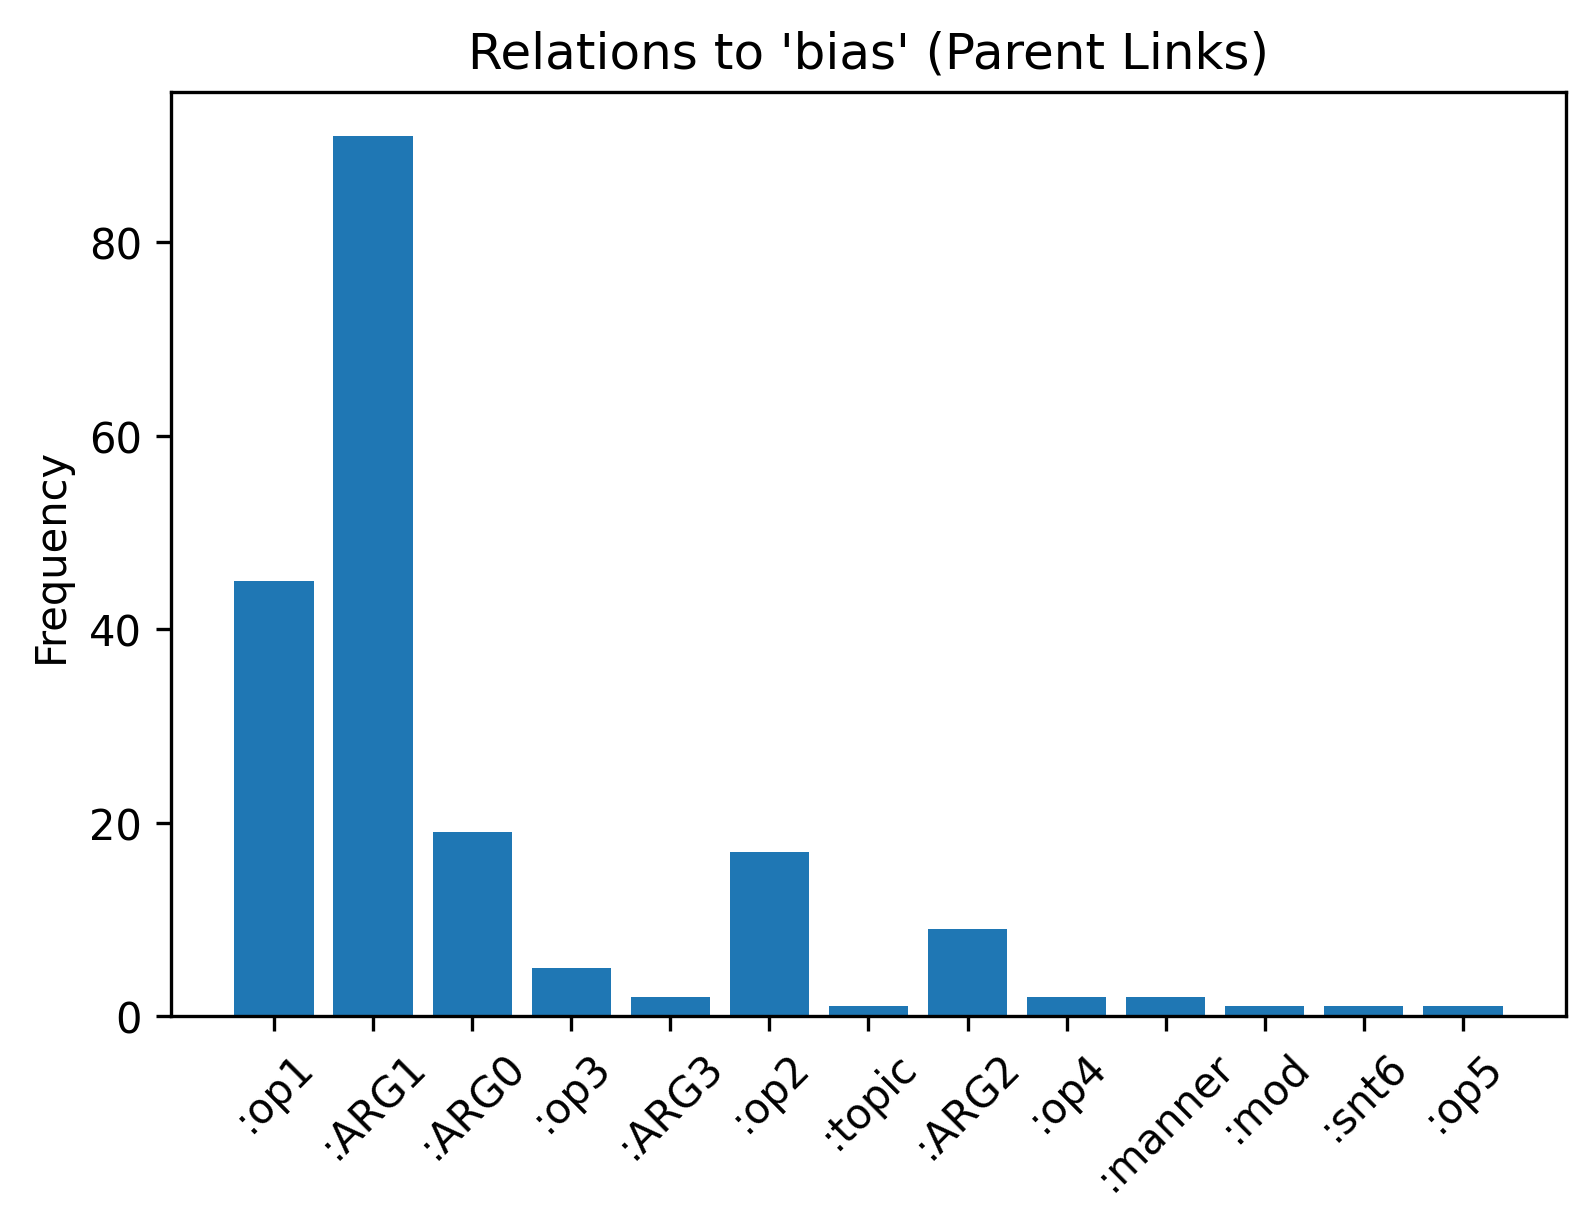
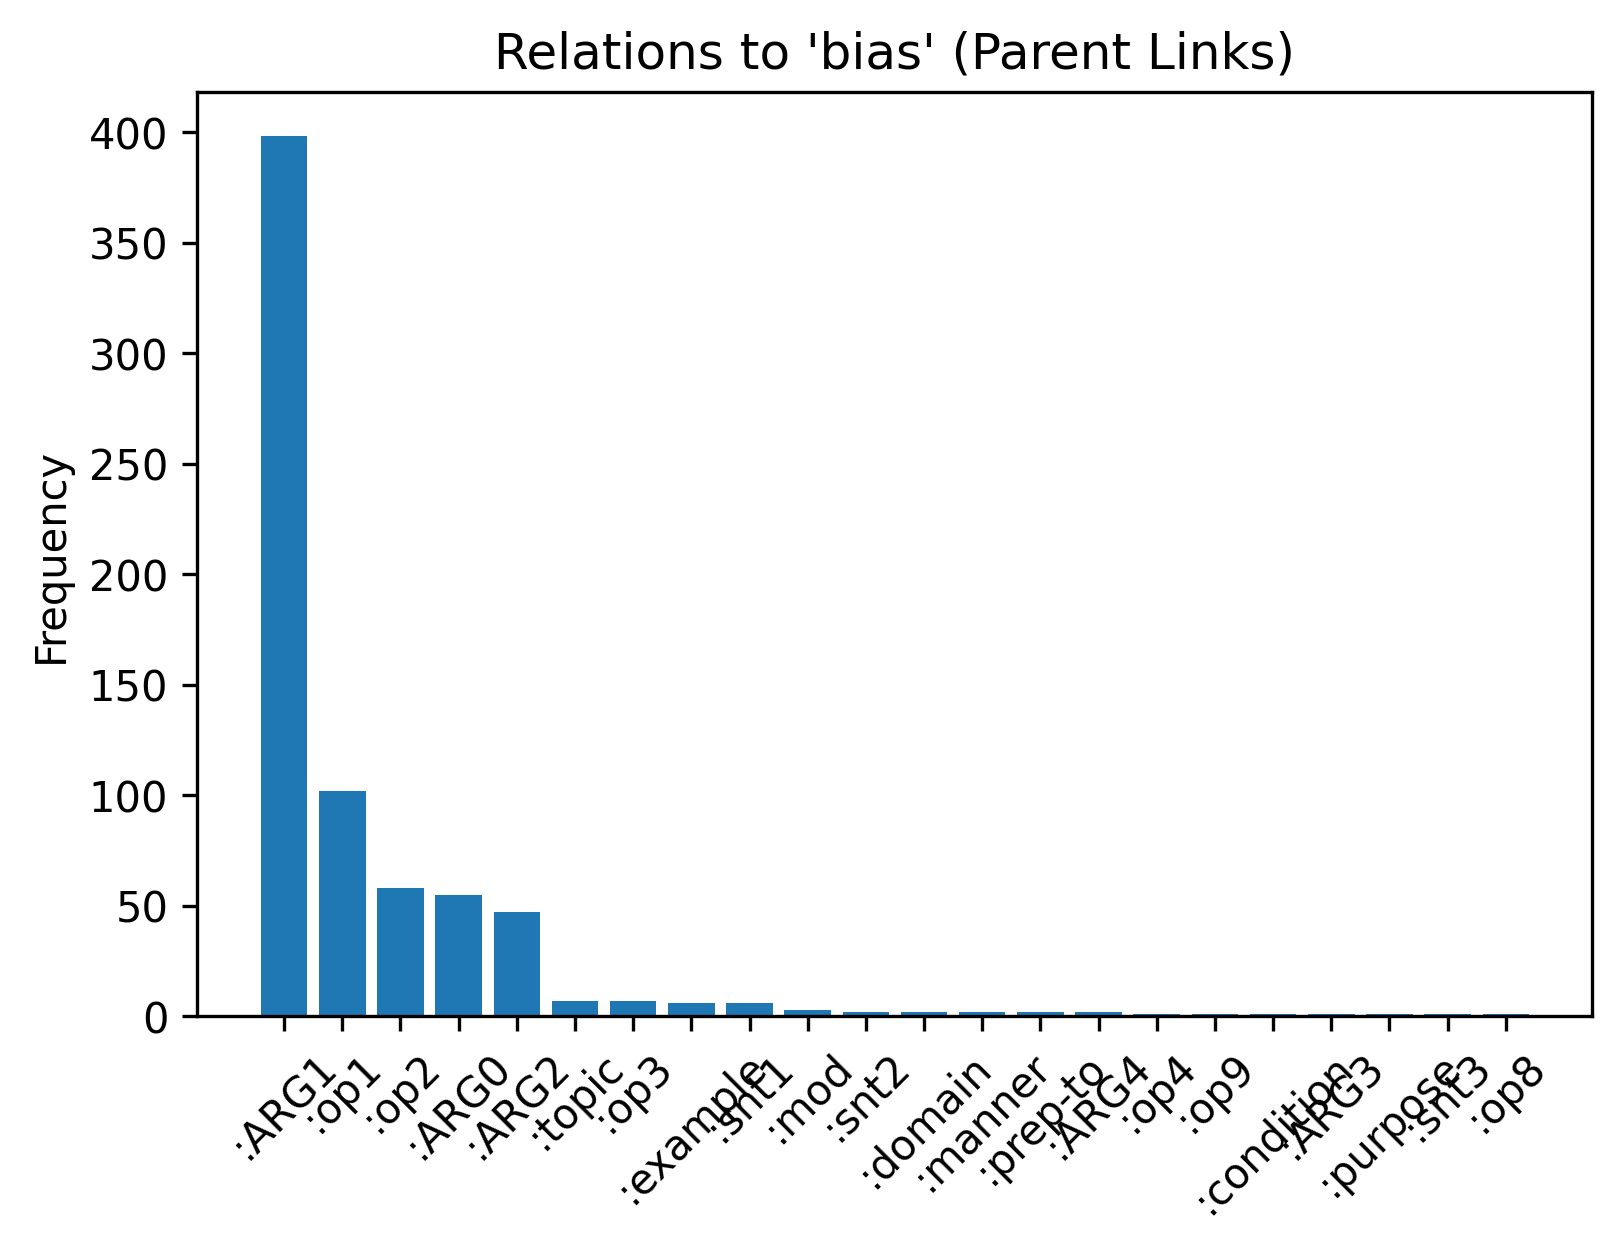
feat: add bias amr

Changed region(s): [[0.0, 0.0, 0.9831, 0.9585]]

diff --git a/src/bias_position_in_graph.py b/src/bias_position_in_graph.py
@@ -1,0 +1,146 @@
+from penman import load
+from collections import defaultdict, Counter
+import matplotlib.pyplot as plt
+import logging
+from src.config import cfg
+
+# --- Logging configuration ---
+logging.getLogger().setLevel(logging.ERROR)
+logging.getLogger("penman").setLevel(logging.ERROR)
+logging.getLogger("penman.codec").setLevel(logging.ERROR)
+
+# --- Load AMR file ---
+amr_file = cfg.amr_path
+
+with open(amr_file, "r", encoding="utf-8") as f:
+    amr_graphs = list(load(f))
+
+print(f"Loaded {len(amr_graphs)} AMR graphs.\n")
+
+# --- Count occurrences of concepts related to 'bias' ---
+bias_concepts = defaultdict(int)
+
+for graph in amr_graphs:
+    for src, rel, tgt in graph.triples:
+        if rel == ":instance" and tgt and "bias" in tgt.lower():
+            bias_concepts[tgt.lower()] += 1
+
+# --- Analyze structural position of 'bias' in each graph ---
+def analyze_bias_structure(graph):
+    """Return structural info for nodes representing 'bias' or 'bias-01'."""
+    triples = graph.triples
+    bias_nodes = [
+        src
+        for (src, rel, tgt) in triples
+        if rel == ":instance" and tgt and "bias" in tgt.lower()
+    ]
+    structures = []
+
+    for node in bias_nodes:
+        parents = [(src, rel) for (src, rel, tgt) in triples if tgt == node]
+        children = [(rel, tgt) for (src, rel, tgt) in triples if src == node and rel != ":instance"]
+        siblings = set()
+
+        for (src, rel, tgt) in triples:
+            if tgt == node:
+                siblings.update(
+                    [sib_tgt for (sib_src, sib_rel, sib_tgt) in triples if sib_src == src and sib_tgt != node]
+                )
+
+        all_targets = {t for (_, _, t) in triples}
+        is_root = node not in all_targets
+        is_leaf = not any(src == node and rel != ":instance" for (src, rel, tgt) in triples)
+
+        structures.append({
+            "node": node,
+            "is_root": is_root,
+            "is_leaf": is_leaf,
+            "parents": parents,
+            "siblings": list(siblings),
+            "children": children
+        })
+    return structures
+
+
+# --- Iterate and print structure info for graphs containing 'bias' ---
+for i, graph in enumerate(amr_graphs):
+    structures = analyze_bias_structure(graph)
+    if structures:
+        print(f"\n--- Graph {i + 1} ---")
+        for s in structures:
+            pos_type = "root" if s["is_root"] else "leaf" if s["is_leaf"] else "node"
+            print(f"Node: {s['node']} ({pos_type})")
+            print(f"  Parents: {s['parents']}")
+            print(f"  Siblings: {s['siblings']}")
+            print(f"  Children: {s['children']}")
+
+# --- Summary statistics ---
+summary = {
+    "root_count": 0,
+    "node_count": 0,
+    "leaf_count": 0,
+    "relations_to_bias": Counter(),
+    "relations_from_bias": Counter(),
+}
+
+for graph in amr_graphs:
+    triples = graph.triples
+    bias_nodes = [src for (src, rel, tgt) in triples if rel == ":instance" and tgt and "bias" in tgt.lower()]
+
+    for node in bias_nodes:
+        all_targets = {t for (_, _, t) in triples}
+        is_root = node not in all_targets
+        is_leaf = not any(src == node and rel != ":instance" for (src, rel, tgt) in triples)
+
+        if is_root:
+            summary["root_count"] += 1
+        elif is_leaf:
+            summary["leaf_count"] += 1
+        else:
+            summary["node_count"] += 1
+
+        for src, rel, tgt in triples:
+            if tgt == node:
+                summary["relations_to_bias"][rel] += 1
+            if src == node:
+                summary["relations_from_bias"][rel] += 1
+
+# --- Print summary ---
+print("\n=== Summary of 'bias' Structures ===")
+print(f"Root occurrences: {summary['root_count']}")
+print(f"Internal node occurrences: {summary['node_count']}")    
+print(f"Leaf occurrences: {summary['leaf_count']}")
+
+print("\nRelations TO 'bias' (Parent → Bias):")
+for rel, count in summary["relations_to_bias"].most_common():
+    print(f"  {rel}: {count}")
+
+print("\nRelations FROM 'bias' (Bias → Child):")
+for rel, count in summary["relations_from_bias"].most_common():
+    print(f"  {rel}: {count}")
+
+# --- Plot parent relations ---
+plt.figure(figsize=(6, 4))
+relations_to_bias = summary["relations_to_bias"]
+if relations_to_bias:
+    sorted_relations = sorted(relations_to_bias.items(), key=lambda x: x[1], reverse=True)
+    relations, counts = zip(*sorted_relations)
+    plt.bar(relations, counts, color="lightcoral")
+    plt.title("Relations TO 'bias' (Parent Links)")
+    plt.xticks(rotation=45)
+    plt.ylabel("Frequency")
+    plt.tight_layout()
+    plt.savefig("figures/relations_to_bias.png", dpi=300, bbox_inches="tight")
+
+# --- Plot child relations ---
+plt.figure(figsize=(6, 4))
+relations_from_bias = summary["relations_from_bias"]
+if relations_from_bias:
+    sorted_relations = sorted(relations_from_bias.items(), key=lambda x: x[1], reverse=True)
+    relations, counts = zip(*sorted_relations)
+    plt.bar(relations, counts, color="mediumseagreen")
+    plt.title("Relations FROM 'bias' (Child Links)")
+    plt.xticks(rotation=45)
+    plt.ylabel("Frequency")
+    plt.tight_layout()
+    plt.savefig("figures/relations_from_bias.png", dpi=300, bbox_inches="tight")

diff --git a/src/clean_amr.py b/src/clean_amr.py
@@ -1,0 +1,66 @@
+#!/usr/bin/env python3
+"""
+Supprime uniquement les lignes provoquant :
+DecodeError: Expected: LPAREN
+dans un fichier .amr, sans rien modifier d'autre.
+"""
+
+from penman import load, DecodeError
+import io
+import logging
+
+logging.getLogger().setLevel(logging.ERROR)
+logging.getLogger("penman").setLevel(logging.ERROR)
+logging.getLogger("penman.codec").setLevel(logging.ERROR)
+
+input_path = "data/bias_AMR-500.amr"       # <-- ton fichier original
+output_path = "data/bias_AMR-500_clean.amr"  # <-- fichier nettoyé
+
+print(f"🧹 Nettoyage du fichier : {input_path}")
+
+# Lecture initiale
+with open(input_path, "r", encoding="utf-8") as f:
+    lines = f.readlines()
+
+iteration = 0
+removed_lines = []
+
+while True:
+    iteration += 1
+    try:
+        # On reconstruit un "fichier" à partir des lignes actuelles
+        buffer = io.StringIO("".join(lines))
+        _ = list(load(buffer))
+        print(f"✅ Aucun problème détecté après {iteration} itération(s).")
+        break  # tout est bon
+
+    except DecodeError as e:
+        msg = str(e)
+        if "Expected: LPAREN" not in msg:
+            raise e  # autre erreur → on la laisse remonter
+
+        # Extraire le numéro de ligne de l'erreur
+        line_num = None
+        for part in msg.splitlines():
+            if part.strip().startswith("line "):
+                try:
+                    line_num = int(part.strip().split()[1])
+                    break
+                except Exception:
+                    pass
+
+        if not line_num or line_num > len(lines):
+            raise e
+
+        # Supprime la ligne fautive
+        print(f"⚠ Suppression de la ligne {line_num} (DecodeError: Expected: LPAREN)")
+        removed_lines.append(line_num)
+        del lines[line_num - 1]  # index base 0
+        continue  # retente le parsing
+
+# Sauvegarde finale
+with open(output_path, "w", encoding="utf-8") as out:
+    out.writelines(lines)
+
+print(f"\n✅ Fichier nettoyé enregistré sous : {output_path}")
+print(f"🗑  Lignes supprimées : {len(removed_lines)} -> {removed_lines}")

diff --git a/src/bias_amr.py b/src/bias_amr.py
@@ -1,5 +1,5 @@
 from penman import load
-from penman import load
+from collections import defaultdict
 import matplotlib.pyplot as plt
 from collections import Counter
 
@@ -17,17 +17,24 @@ with open(amr_file, "r", encoding="utf-8") as f:
     amr_graphs = list(load(f))
 
 # Extract concepts containing "bias"
-bias_concepts = set()
-
+bias_concepts = defaultdict(int)
 for graph in amr_graphs:
     for triple in graph.triples:
-        # triple = (source, relation, target)
         if triple[1] == ':instance' and triple[2] and 'bias' in triple[2].lower():
-            bias_concepts.add(triple[2].lower())
+            bias_concepts[triple[2].lower()] += 1
 
-bias_concepts = sorted(bias_concepts)
-print(f"Concepts related to 'bias' in AMR: {bias_concepts}")
-
+#distibution de bias et bias-01
+sorted_bias_concepts = sorted(bias_concepts.items(), key=lambda x: x[1], reverse=True)
+concepts, counts = zip(*sorted_bias_concepts) if sorted_bias_concepts else ([], [])
+# concepts, counts = zip(*bias_concepts)
+plt.figure(figsize=(5, 6))
+plt.bar(concepts, counts, color='skyblue')
+plt.xlabel('Concepts related to "bias"')
+plt.ylabel('Frequency')
+plt.title('Histogram of concepts related to "bias" in AMR')
+plt.xticks(rotation=45, ha='right')
+plt.tight_layout()
+plt.savefig("figures/hist_concept.png", dpi=300, bbox_inches="tight")
 
 def analyze_bias_structure(graph):
     """Return structure info for nodes related to bias or bias-01."""
@@ -112,7 +119,10 @@ print(f"\nGraphs with polarity markers: {summary['graphs_with_polarity']}")
 
 
 plt.figure(figsize=(6,4))
-plt.bar(summary["relations_to_bias"].keys(), summary["relations_to_bias"].values())
+relations_to_bias = summary["relations_to_bias"]
+sorted_relations = sorted(relations_to_bias.items(), key=lambda x: x[1], reverse=True)
+relations, counts = zip(*sorted_relations)
+plt.bar(relations, counts)
 plt.title("Relations to 'bias' (Parent Links)")
 plt.xticks(rotation=45)
 plt.ylabel("Frequency")

diff --git a/README.md b/README.md
@@ -1,14 +1,74 @@
-# CHAI Bias
+# 🧠 CHAI Bias
 
-## Setup
-Config.json :
-```bash 
+A toolkit for exploring and visualizing linguistic bias in text and AMR (Abstract Meaning Representation) data.
+
+---
+
+## ⚙ Setup
+
+### 1. Configure paths
+
+Edit your `config.json` file to specify the correct paths for your data:
+
+```json
 {
-    "txt_path": ".....mapaie/data/txts",
-  }
-  
+  "txt_path": ".../mapaie/data/txts",
+  "MapAIE_csv_path": "bias-MapAIE.csv",
+  "amr_path": "data/bias_AMR-500_clean.amr"
+}
 ```
-# visualisation
+
+### 2. Run the pipeline
+
+Execute your desired module from the `src` directory:
+
+```bash
+python -m src.<module_name>
+```
+
+---
+
+## Pipeline Overview
+### **Part 0 : Download data**
+Follow step by step this repository to finally obtain txts/ folder :
+
+https://gitlab.telecom-paris.fr/tiphaine.viard/mapaie
+
+### **Part 1: CSV and TXT Processing**
+
+1. **Create CSV from text files**
+   Extract all sentences containing bias-related words and save them to a CSV file:
+   → Output: `bias-MapAIE.csv`
+
+2. **Bias Exploration**
+   Visualize bias distribution and patterns across the dataset:
+   → Output: `bias_analysis_subplot.png`
+
+3. **Word Frequency Analysis**
+   Explore frequency of bias-related words:
+   → Output: `word_frequency.png`
+
+4. **POS Tag Visualization**
+   Analyze part-of-speech patterns associated with biased words:
+   → Output: `bias_pos_visualisation.png`
+
+---
+
+### **Part 2: AMR Analysis**
+
+5. **AMR Structure Exploration**
+   Investigate structural bias representation within AMR graphs:
+   → Output: `bias_amr.png`
+
+6. **Bias Position in Graphs**
+   Identify relationships from/to bias-related nodes in the AMR graph.
+
+---
+
+## 📊 Graph Visualization
+
+You can visualize AMR graphs interactively using **Metamorphosed** (Docker-based):
+
 ```bash
 docker pull jheinecke/metamorphosed:latest
 
@@ -17,3 +77,51 @@ docker run --name metamorphosed -p 4567:4567 \
   --env AMRFILE=bias-small.amr \
   jheinecke/metamorphosed:latest
 ```
+
+Then, open your browser and navigate to:
+
+👉 [http://localhost:4567/](http://localhost:4567/)
+
+---
+
+## 📁 Project Structure
+
+```
+CHAI-bias/
+│
+├── data/
+│   ├── bias-AMR-500_clean.amr
+│   └── bias-MapAIE.csv
+│
+├── mapaie/
+│   ├── docs/
+│   └── txts/
+│
+├── src/
+│   ├── bias_exploration.py
+│   ├── bias_pos_tag.py
+│   ├── bias_amr.py
+│   └── ...
+│
+├── notebooks/
+│   └── bias_analysis.ipynb
+│
+├── config.json
+└── README.md
+```
+
+---
+
+## 🧾 Outputs Summary
+
+| Step | Description            | Output File                  |
+| ---- | ---------------------- | ---------------------------- |
+| 1    | Extract bias sentences | `bias-MapAIE.csv`            |
+| 2    | Bias analysis plots    | `bias_analysis_subplot.png`  |
+| 3    | Word frequency plot    | `word_frequency.png`         |
+| 4    | POS visualization      | `bias_pos_visualisation.png` |
+| 5    | AMR structural bias    | `bias_amr.png`               |
+
+---
+
+Would you like me to make it **more formal and research-paper style** (for publication/code release), or **more practical and developer-oriented** (for contributors)? I can tailor the tone accordingly.
